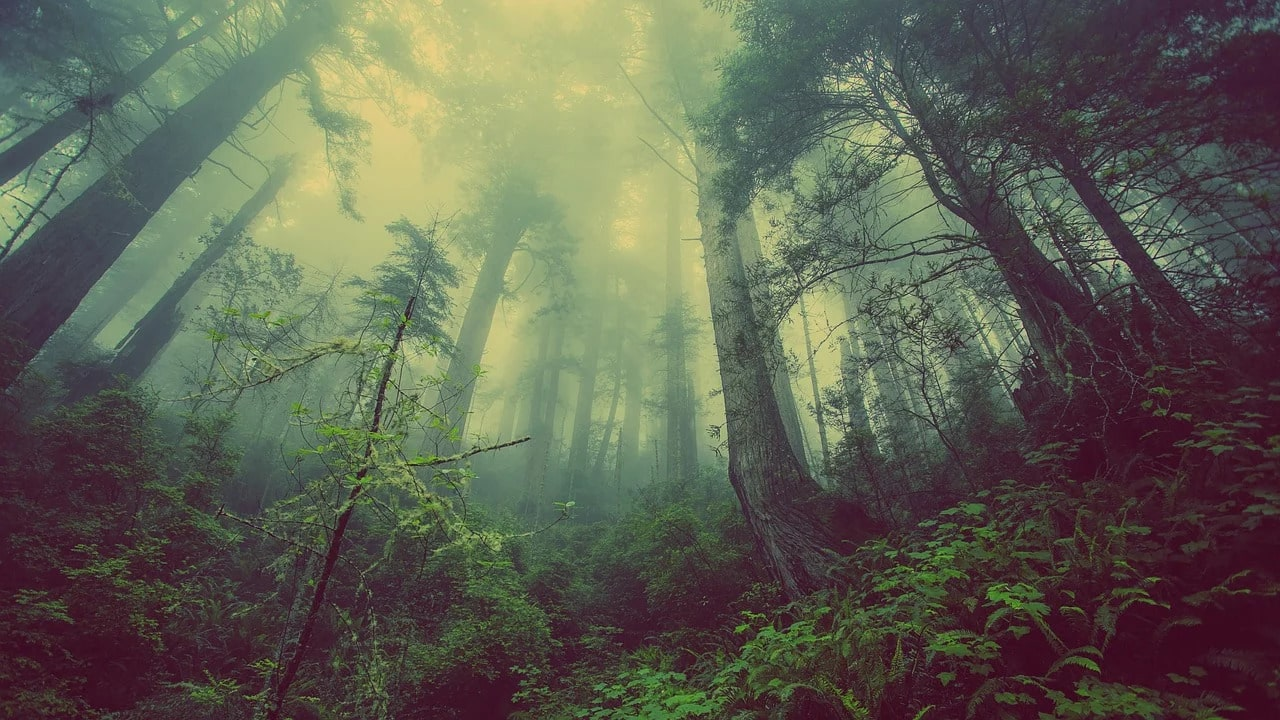
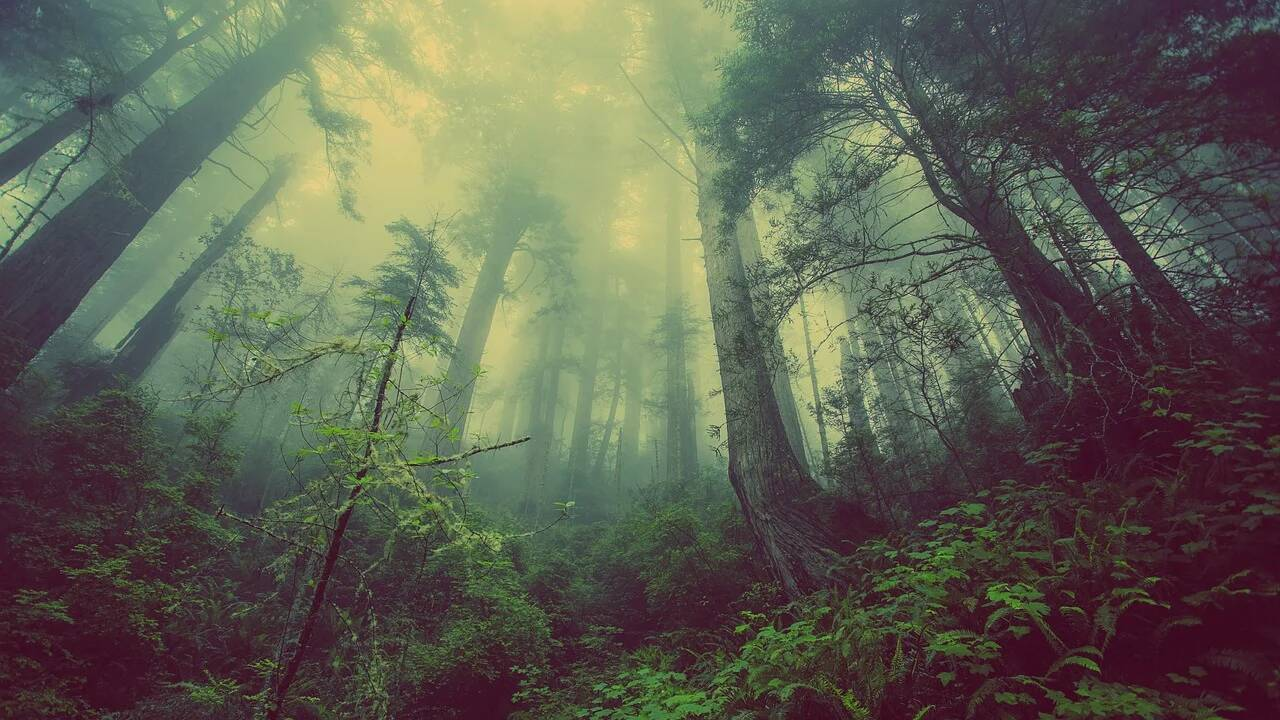
compress jpeg

diff --git a/README.md b/README.md
@@ -1,4 +1,4 @@
 # disc-chart
-A web-based data table of disc golf discs and their attributes, web scraped from [Infinite Discs](https://infinitediscs.com). Note that only manufacturers and models may be present present on Infinite Discs will appear in this data.
+A web-based data table of disc golf discs and their attributes, web scraped from [Infinite Discs](https://infinitediscs.com). Note that only manufacturers and models that are present on Infinite Discs will appear in this data.
 
-For raw data, instead of an interactive data table, see the csv file: https://github.com/schwadan001/disc-chart/blob/master/docs/discs.csv
+The raw data is stored in a csv file: https://github.com/schwadan001/disc-chart/blob/master/docs/discs.csv
